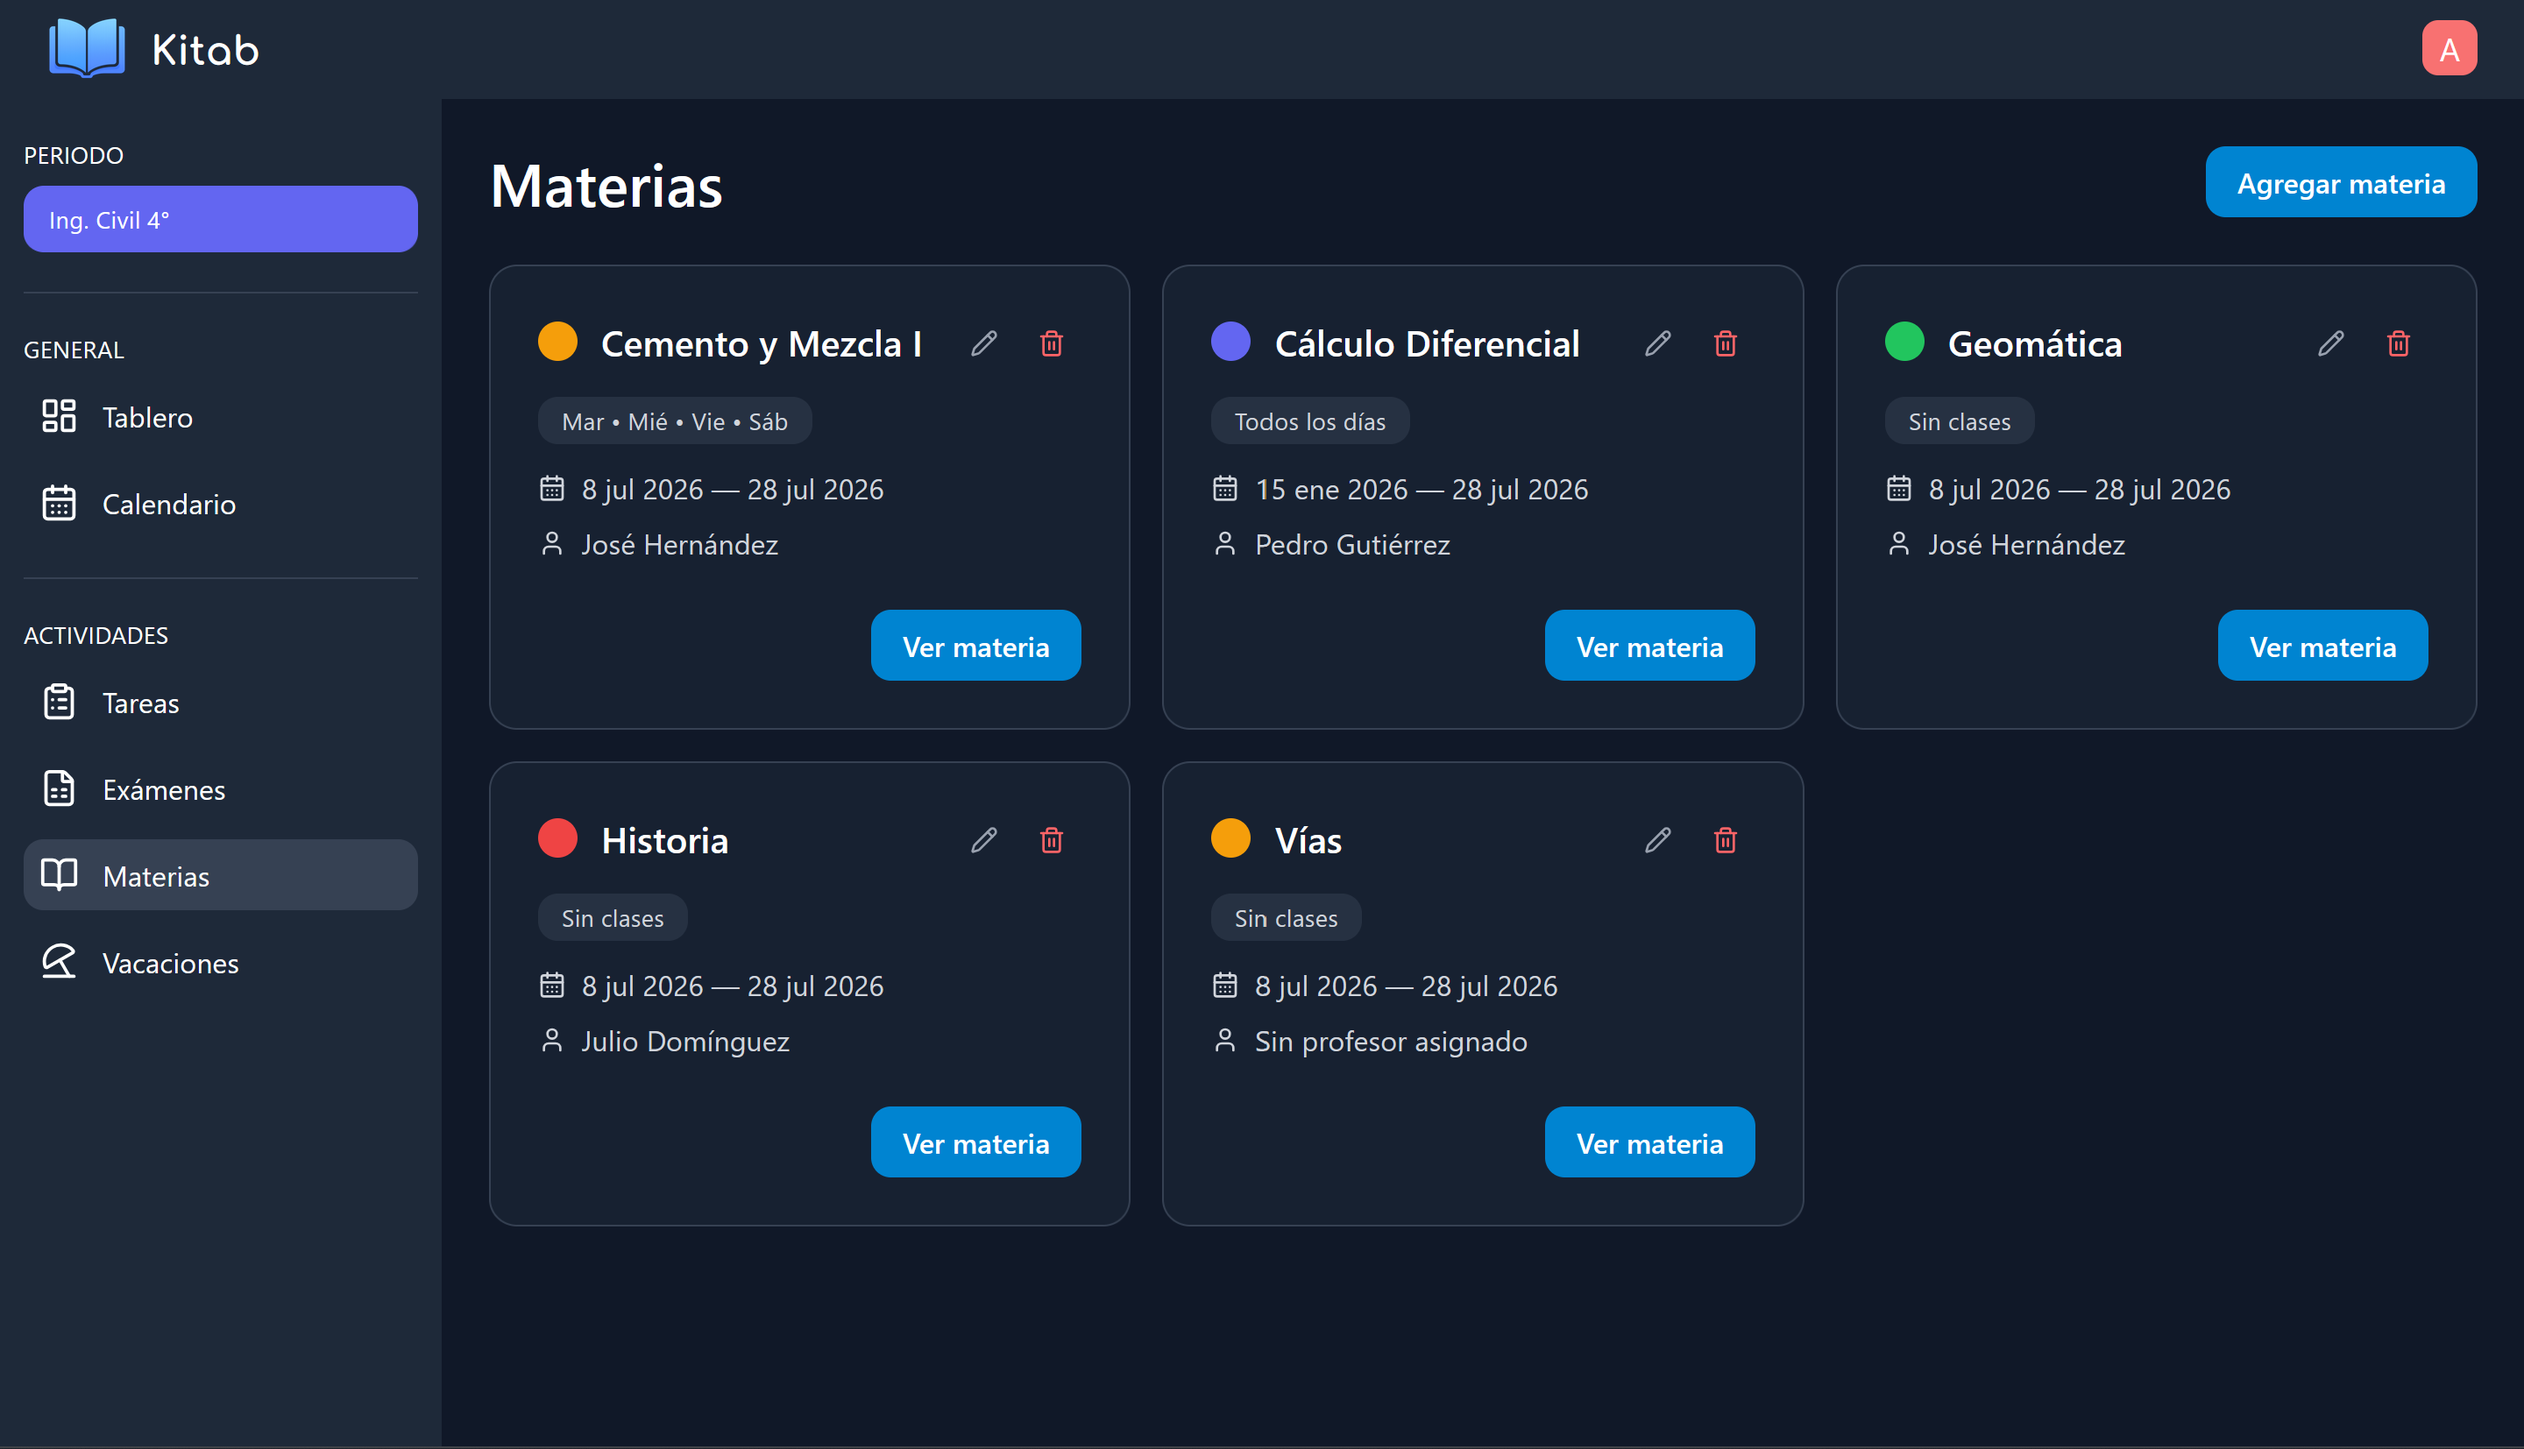
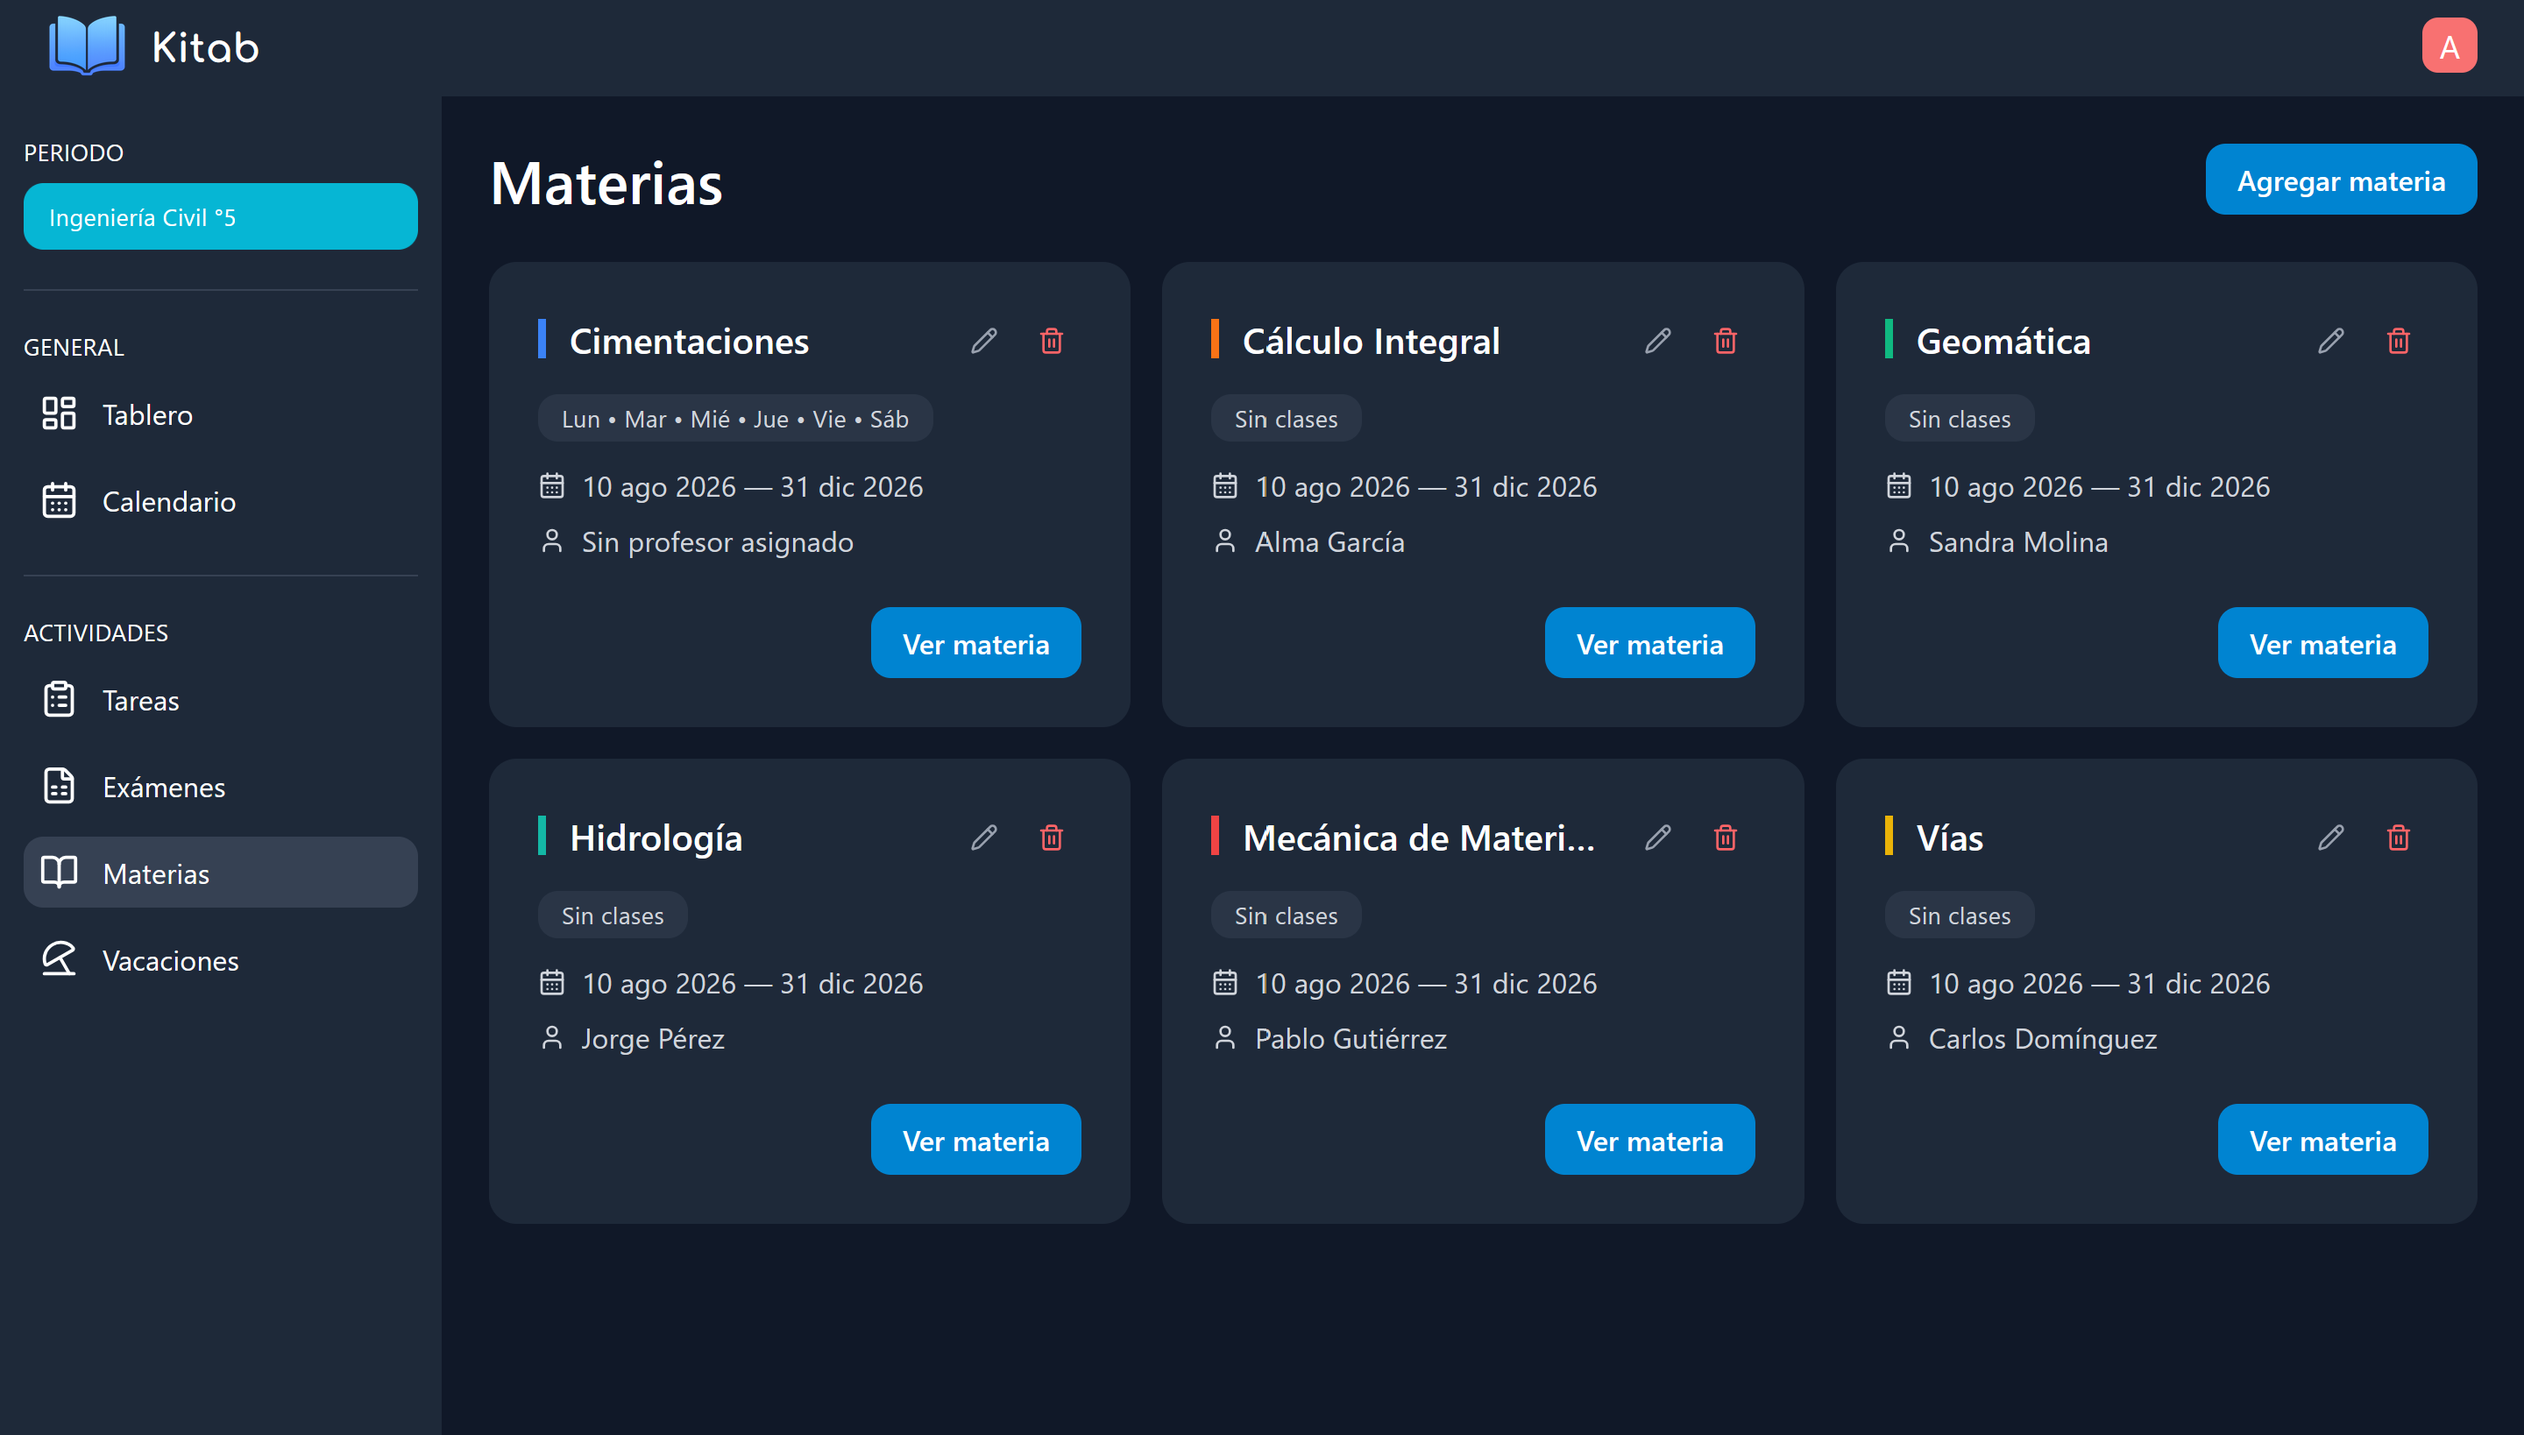
Add TypeScript and Vitest stack entries
- Expanded the portfolio stack with TypeScript and Vitest, including new SVG assets and updated translations. This adds a testing category and surfaces the new technologies in both Spanish and English.

diff --git a/src/data/stack.js b/src/data/stack.js
@@ -1,4 +1,5 @@
 import javascript from '../assets/stack/javascript.svg'
+import typescript from '../assets/stack/typescript.svg'
 import react from '../assets/stack/react.svg'
 import tailwind from '../assets/stack/tailwind.svg'
 import node from '../assets/stack/nodejs.svg'
@@ -6,13 +7,14 @@ import express from '../assets/stack/express.svg'
 import php from '../assets/stack/php.svg'
 import postgre from '../assets/stack/postgre.svg'
 import sqlserver from '../assets/stack/sqlserver.svg'
+import vitest from '../assets/stack/vitest.svg'
 import mongo from '../assets/stack/mongo.svg'
 import git from '../assets/stack/git.svg'
 import github from '../assets/stack/github.svg'
 import vercel from '../assets/stack/vercel.svg'
 import render from '../assets/stack/render.svg'
 import neon from '../assets/stack/neon.svg'
-import { Monitor, Server, Database, Cloud, Rocket } from 'lucide-react'
+import { Monitor, Server, Database, Cloud, Rocket, FlaskConical } from 'lucide-react'
 
 const stack = {
   frontend: {
@@ -20,6 +22,9 @@ const stack = {
     technologies: {
       javascript: {
         name: 'JavaScript', icon: javascript
+      },
+      typescript: {
+        name:"TypeScript", icon: typescript
       },
       react: {
         name: 'React.js' , icon: react
@@ -58,6 +63,15 @@ const stack = {
       },
       sqlserver: {
         name: 'SQL Server', icon: sqlserver
+      }
+    }
+  },
+
+  testing: {
+    icon: FlaskConical,
+    technologies: {
+      vitest: {
+        name: 'Vitest', icon: vitest
       }
     }
   },

diff --git a/src/data/translations.js b/src/data/translations.js
@@ -22,6 +22,7 @@ const translations = {
       description: 'Esta es la colección de tecnologías y herramientas que utilizo para crear aplicaciones web modernas.',
       frontend: "Frontend",
       backend: "Backend",
+      testing: "Pruebas",
       databases: "Bases de datos",
       devops: "DevOps",
       deployment: "Despliegue y Nube",
@@ -104,6 +105,7 @@ const translations = {
       frontend: "Frontend",
       backend: "Backend",
       databases: "Databases",
+      testing: "Testing",
       devops: "DevOps",
       deployment: "Deployment & Cloud",
     },
